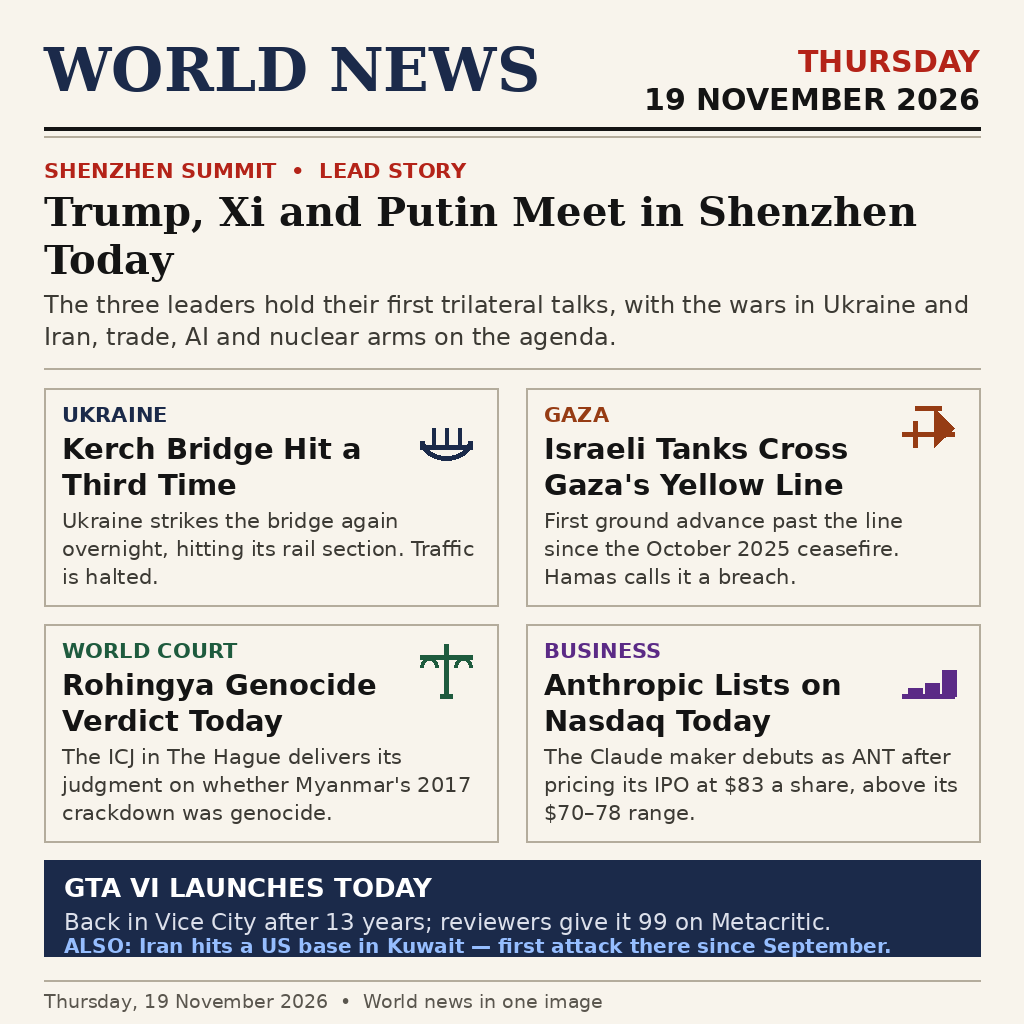
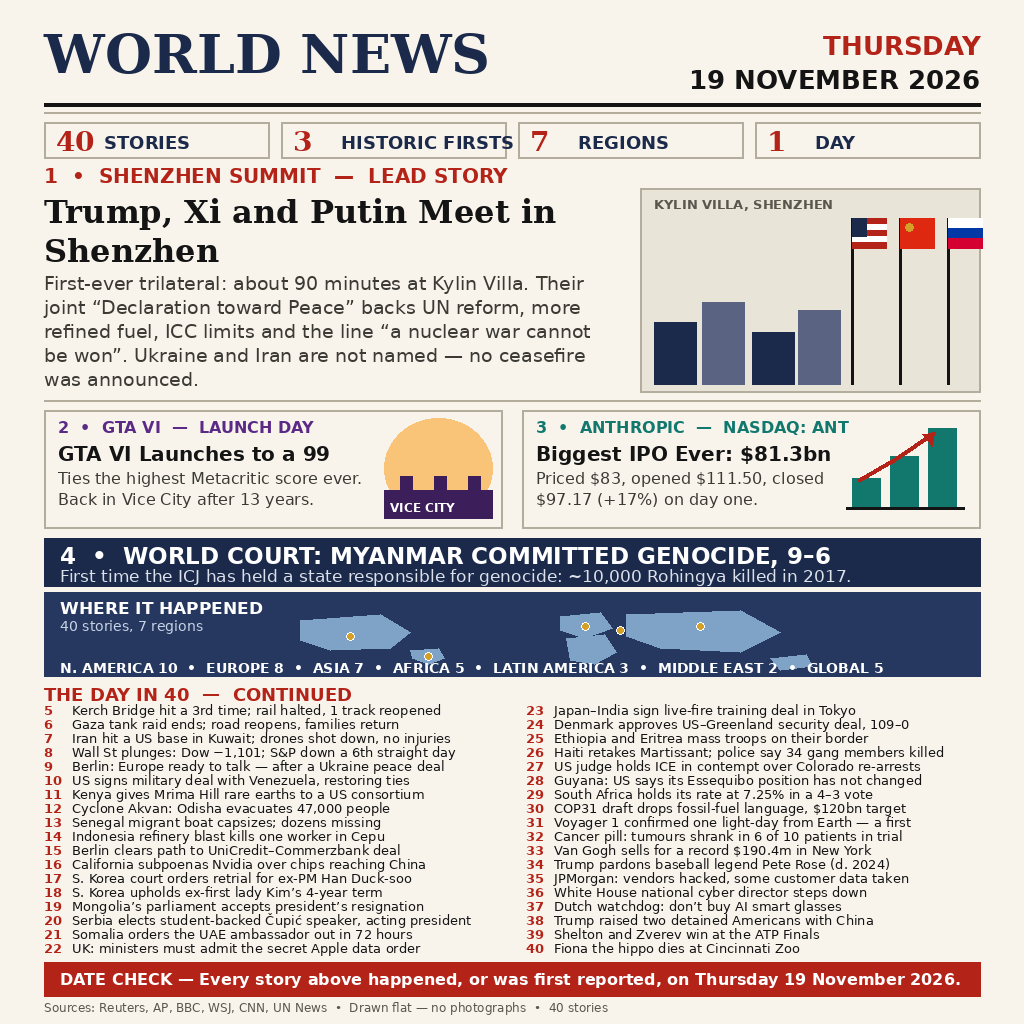
Rebuild v2: evening-complete 19 November news, top-10 flat template, 40 stories

diff --git a/main.ts b/main.ts
@@ -2,6 +2,8 @@
 // entry.png beside this file, and the program copies it to /output/entry.png.
 // The image sums up the world's news of Thursday 19 November 2026 as a
 // newspaper front page drawn by draw.py (see that file for the generator).
+// v2 (20 Nov 2026): evening-complete front page, 40 stories, flat-drawn
+// (Shenzhen declaration, ICJ genocide ruling, Anthropic IPO, GTA VI).
 // The copy is byte for byte, so two runs of this program write the same bytes.
 //
 // Outside the grader's container, MAKEFUN_OUTPUT_DIR stands in for /output:

diff --git a/draw.py b/draw.py
@@ -1,9 +1,17 @@
 #!/usr/bin/env python3
-"""Draw the 19 November 2026 world-news front page (1024x1024 PNG).
+"""Draw the 19 November 2026 world-news front page, v2 (1024x1024 PNG).
 
 Run once here to produce entry.png. The entry program (main.ts) only
 copies entry.png to /output/entry.png, so the grader needs no fonts.
-All facts are the events reported on Thursday 19 November 2026.
+All facts are events that happened, or were first reported, on
+Thursday 19 November 2026 (evening-complete research, 20 Nov 2026).
+
+Layout (top-10 template): flat one-page newspaper, cream paper,
+40 stories, 3 flat-illustrated leads (Shenzhen, GTA VI, Anthropic),
+navy "WHERE IT HAPPENED" world map with per-region counts, a long
+numbered list (items 5-40), and a red "DATE CHECK" footer.
+No photographs: every picture is drawn flat.
+Sections flow top to bottom from a y cursor so nothing overlaps.
 """
 from PIL import Image, ImageDraw, ImageFont
 
@@ -12,8 +20,13 @@ PAPER = (248, 244, 236)
 INK = (20, 20, 20)
 MUTED = (90, 86, 78)
 NAVY = (27, 42, 74)
+NAVY_LT = (127, 163, 199)
 RED = (180, 35, 24)
 RULE = (180, 172, 156)
+TEAL = (18, 120, 110)
+ORANGE = (230, 120, 40)
+PURPLE = (91, 42, 134)
+GOLD = (212, 160, 40)
 
 SERIF_B = "/usr/share/fonts/truetype/dejavu/DejaVuSerif-Bold.ttf"
 SANS_B = "/usr/share/fonts/truetype/dejavu/DejaVuSans-Bold.ttf"
@@ -45,110 +58,223 @@ def para(d, x, y, text, f, max_w, leading, color=INK):
     return y
 
 
-def kicker(d, x, y, text, color):
-    f = font(SANS_B, 21)
-    d.text((x, y), text, font=f, fill=color)
-    return y + 30
-
-
-def icon_bridge(d, cx, cy, s, color):
-    d.arc([cx - s, cy - s // 2, cx + s, cy + s], 0, 180, fill=color, width=5)
-    d.line([cx - s, cy + s // 2, cx + s, cy + s // 2], fill=color, width=5)
-    for dx in (-s // 2, 0, s // 2):
-        d.line([cx + dx, cy - s // 4, cx + dx, cy + s // 2], fill=color, width=4)
-
-
-def icon_cross(d, cx, cy, s, color):
-    d.line([cx - s, cy, cx + s, cy], fill=color, width=5)
-    d.line([cx - s // 2, cy - s, cx + s // 2, cy - s], fill=color, width=5)
-    d.polygon([(cx + s // 4, cy - s), (cx + s, cy - s // 4),
-               (cx + s // 4, cy + s // 2)], fill=color)
-    d.line([cx - s // 2, cy + s // 2, cx - s // 2, cy - s // 2],
-           fill=color, width=5)
-
-
-def icon_scales(d, cx, cy, s, color):
-    d.line([cx, cy - s, cx, cy + s], fill=color, width=5)
-    d.line([cx - s, cy - s // 2, cx + s, cy - s // 2], fill=color, width=5)
-    d.arc([cx - s, cy - s // 2, cx - s // 3, cy + s // 3], 180, 360,
-          fill=color, width=4)
-    d.arc([cx + s // 3, cy - s // 2, cx + s, cy + s // 3], 180, 360,
-          fill=color, width=4)
-    d.line([cx - s // 4, cy + s, cx + s // 4, cy + s], fill=color, width=5)
-
-
-def icon_chart(d, cx, cy, s, color):
-    d.line([cx - s, cy + s, cx + s, cy + s], fill=color, width=5)
-    for i, h in enumerate((s // 3, s // 2, s)):
-        x0 = cx - s + 6 + i * (2 * s // 3)
-        d.rectangle([x0, cy + s - h, x0 + 14, cy + s], fill=color)
+def kicker(d, x, y, text, color, size=20):
+    d.text((x, y), text, font=font(SANS_B, size), fill=color)
+    return y + size + 8
 
 
 img = Image.new("RGB", (W, H), PAPER)
 d = ImageDraw.Draw(img)
 M = 44  # margin
+R = W - M  # right edge
+y = 0
 
 # --- Masthead ---
-d.text((M, 34), "WORLD NEWS", font=font(SERIF_B, 60), fill=NAVY)
-d.text((W - M, 44), "THURSDAY", font=font(SANS_B, 30), fill=RED, anchor="ra")
-d.text((W - M, 82), "19 NOVEMBER 2026", font=font(SANS_B, 30), fill=INK, anchor="ra")
-d.line([M, 128, W - M, 128], fill=INK, width=4)
-d.line([M, 136, W - M, 136], fill=RULE, width=2)
+d.text((M, 22), "WORLD NEWS", font=font(SERIF_B, 54), fill=NAVY)
+d.text((R, 30), "THURSDAY", font=font(SANS_B, 26), fill=RED, anchor="ra")
+d.text((R, 64), "19 NOVEMBER 2026", font=font(SANS_B, 26), fill=INK,
+       anchor="ra")
+d.line([M, 104, R, 104], fill=INK, width=4)
+d.line([M, 112, R, 112], fill=RULE, width=2)
 
-# --- Lead story ---
-y = 158
-y = kicker(d, M, y, "SHENZHEN SUMMIT  •  LEAD STORY", RED)
-y = para(d, M, y, "Trump, Xi and Putin Meet in Shenzhen Today",
-         font(SERIF_B, 40), W - 2 * M, 48)
-y = para(d, M, y + 6,
-         "The three leaders hold their first trilateral talks, with the "
-         "wars in Ukraine and Iran, trade, AI and nuclear arms on the agenda.",
-         font(SANS, 24), W - 2 * M, 32, color=(60, 58, 52))
-d.line([M, y + 14, W - M, y + 14], fill=RULE, width=2)
+# --- Number strip ---
+y = 122
+strip = [("40", "STORIES"), ("3", "HISTORIC FIRSTS"), ("7", "REGIONS"),
+         ("1", "DAY")]
+sw = (R - M - 3 * 12) // 4
+for i, (num, lab) in enumerate(strip):
+    x0 = M + i * (sw + 12)
+    d.rectangle([x0, y, x0 + sw, y + 36], outline=RULE, width=2)
+    d.text((x0 + 12, y + 2), num, font=font(SERIF_B, 28), fill=RED)
+    d.text((x0 + 60, y + 10), lab, font=font(SANS_B, 18), fill=NAVY)
+y += 42
 
-# --- 2x2 grid ---
-cells = [
-    ("UKRAINE", NAVY, "Kerch Bridge Hit a Third Time",
-     "Ukraine strikes the bridge again overnight, hitting "
-     "its rail section. Traffic is halted.", icon_bridge),
-    ("GAZA", (150, 60, 20), "Israeli Tanks Cross Gaza's Yellow Line",
-     "First ground advance past the line since the October 2025 "
-     "ceasefire. Hamas calls it a breach.", icon_cross),
-    ("WORLD COURT", (30, 91, 62), "Rohingya Genocide Verdict Today",
-     "The ICJ in The Hague delivers its judgment on whether "
-     "Myanmar's 2017 crackdown was genocide.", icon_scales),
-    ("BUSINESS", (91, 42, 134), "Anthropic Lists on Nasdaq Today",
-     "The Claude maker debuts as ANT after pricing its IPO "
-     "at $83 a share, above its $70\u201378 range.", icon_chart),
+# --- Lead 1: Shenzhen summit (flat illustration right) ---
+y = kicker(d, M, y, "1  •  SHENZHEN SUMMIT  —  LEAD STORY", RED)
+lead_top = y
+y = para(d, M, y, "Trump, Xi and Putin Meet in Shenzhen",
+         font(SERIF_B, 32), 560, 39)
+y = para(d, M, y + 2,
+         "First-ever trilateral: about 90 minutes at Kylin Villa. "
+         "Their joint \u201cDeclaration toward Peace\u201d backs UN reform, "
+         "more refined fuel, ICC limits and the line \u201ca nuclear war "
+         "cannot be won\u201d. Ukraine and Iran are not named \u2014 no "
+         "ceasefire was announced.",
+         font(SANS, 19), 560, 24, color=(60, 58, 52))
+lead_bot = y
+# flat illustration: skyline + three flags
+ix0, iy0, ix1, iy1 = 640, lead_top - 4, R, lead_bot
+d.rectangle([ix0, iy0, ix1, iy1], fill=(233, 228, 216), outline=RULE, width=2)
+d.text((ix0 + 14, iy0 + 8), "KYLIN VILLA, SHENZHEN",
+       font=font(SANS_B, 13), fill=MUTED)
+for bx, bh, col in ((ix0 + 14, 62, NAVY), (ix0 + 62, 82, (90, 100, 130)),
+                    (ix0 + 112, 52, NAVY), (ix0 + 158, 74, (90, 100, 130))):
+    d.rectangle([bx, iy1 - 8 - bh, bx + 42, iy1 - 8], fill=col)
+# three flags: US stripes, China red + star, Russia white/blue/red
+fx = ix0 + 212
+d.line([fx, iy0 + 30, fx, iy1 - 8], fill=INK, width=3)
+for j in range(5):
+    d.rectangle([fx, iy0 + 30 + j * 6, fx + 34, iy0 + 36 + j * 6],
+                fill=(180, 35, 24) if j % 2 == 0 else (255, 255, 255))
+d.rectangle([fx, iy0 + 30, fx + 14, iy0 + 48], fill=(27, 42, 74))
+fx = ix0 + 260
+d.line([fx, iy0 + 30, fx, iy1 - 8], fill=INK, width=3)
+d.rectangle([fx, iy0 + 30, fx + 34, iy0 + 60], fill=(222, 41, 16))
+d.ellipse([fx + 5, iy0 + 35, fx + 13, iy0 + 43], fill=GOLD)
+fx = ix0 + 308
+d.line([fx, iy0 + 30, fx, iy1 - 8], fill=INK, width=3)
+for j, c in enumerate(((255, 255, 255), (0, 57, 166), (213, 0, 50))):
+    d.rectangle([fx, iy0 + 30 + j * 10, fx + 34, iy0 + 40 + j * 10],
+                fill=c)
+y = lead_bot + 8
+d.line([M, y, R, y], fill=RULE, width=2)
+y += 10
+
+# --- Row B: two illustrated boxes (GTA VI | Anthropic) ---
+by, bh = y, 118
+bw = (R - M - 20) // 2
+# GTA VI box
+x0 = M
+d.rectangle([x0, by, x0 + bw, by + bh], outline=RULE, width=2)
+yy = kicker(d, x0 + 14, by + 8, "2  •  GTA VI  —  LAUNCH DAY", PURPLE, 16)
+yy = para(d, x0 + 14, yy, "GTA VI Launches to a 99",
+         font(SANS_B, 20), bw - 140, 25)
+para(d, x0 + 14, yy + 2,
+     "Ties the highest Metacritic score ever. Back in Vice City "
+     "after 13 years.",
+     font(SANS, 16), bw - 140, 21, color=(60, 58, 52))
+gx0, gy0 = x0 + bw - 118, by + 8
+d.ellipse([gx0, gy0, gx0 + 108, gy0 + 100], fill=(250, 196, 120))
+d.rectangle([gx0, gy0 + 72, gx0 + 108, gy0 + 100], fill=(60, 30, 90))
+for px in (gx0 + 16, gx0 + 50, gx0 + 84):
+    d.rectangle([px, gy0 + 58, px + 12, gy0 + 100], fill=(60, 30, 90))
+d.text((gx0 + 6, gy0 + 82), "VICE CITY", font=font(SANS_B, 12),
+       fill=(255, 255, 255))
+# Anthropic box
+x0 = M + bw + 20
+d.rectangle([x0, by, x0 + bw, by + bh], outline=RULE, width=2)
+yy = kicker(d, x0 + 14, by + 8, "3  •  ANTHROPIC  —  NASDAQ: ANT",
+            TEAL, 16)
+yy = para(d, x0 + 14, yy, "Biggest IPO Ever: $81.3bn",
+         font(SANS_B, 20), bw - 140, 25)
+para(d, x0 + 14, yy + 2,
+     "Priced $83, opened $111.50, closed $97.17 (+17%) on day one.",
+     font(SANS, 16), bw - 140, 21, color=(60, 58, 52))
+cx0, cy0 = x0 + bw - 128, by + 10
+for i, h in enumerate((30, 52, 80)):
+    d.rectangle([cx0 + i * 38, cy0 + 88 - h, cx0 + i * 38 + 28, cy0 + 88],
+                fill=TEAL)
+d.line([cx0 - 6, cy0 + 88, cx0 + 112, cy0 + 88], fill=INK, width=3)
+d.line([(cx0 + 6, cy0 + 60), (cx0 + 44, cy0 + 38), (cx0 + 82, cy0 + 12)],
+       fill=RED, width=4)
+d.polygon([(cx0 + 82, cy0 + 12), (cx0 + 70, cy0 + 14), (cx0 + 80, cy0 + 26)],
+          fill=RED)
+y = by + bh + 10
+
+# --- ICJ band ---
+d.rectangle([M, y, R, y + 48], fill=NAVY)
+d.text((M + 16, y + 4), "4  •  WORLD COURT: MYANMAR COMMITTED GENOCIDE, 9\u20136",
+       font=font(SANS_B, 23), fill=(255, 255, 255))
+d.text((M + 16, y + 28),
+       "First time the ICJ has held a state responsible for genocide: ~10,000 Rohingya killed in 2017.",
+       font=font(SANS, 17), fill=(220, 224, 235))
+y += 48 + 6
+
+# --- WHERE IT HAPPENED map band ---
+my = y
+d.rectangle([M, my, R, my + 84], fill=(38, 56, 96))
+d.text((M + 16, my + 6), "WHERE IT HAPPENED",
+       font=font(SANS_B, 17), fill=(255, 255, 255))
+d.text((M + 16, my + 26), "40 stories, 7 regions",
+       font=font(SANS, 14), fill=(200, 210, 230))
+# simplified flat continents (kept above the counts line)
+d.polygon([(300, my + 28), (380, my + 22), (410, my + 40), (390, my + 56),
+           (330, my + 58), (300, my + 48)], fill=NAVY_LT)  # N America
+d.polygon([(410, my + 58), (438, my + 56), (444, my + 66), (428, my + 72),
+           (412, my + 66)], fill=NAVY_LT)  # S America
+d.polygon([(560, my + 24), (600, my + 20), (612, my + 36), (584, my + 46),
+           (560, my + 38)], fill=NAVY_LT)  # Europe
+d.polygon([(566, my + 46), (604, my + 42), (616, my + 60), (594, my + 72),
+           (570, my + 68)], fill=NAVY_LT)  # Africa
+d.polygon([(626, my + 22), (740, my + 18), (780, my + 40), (740, my + 60),
+           (660, my + 56), (626, my + 44)], fill=NAVY_LT)  # Asia
+d.polygon([(770, my + 66), (806, my + 62), (812, my + 74), (780, my + 78)],
+          fill=NAVY_LT)  # Oceania
+for dx, dy in ((700, my + 34), (585, my + 34), (620, my + 38),
+               (350, my + 44), (428, my + 64)):
+    d.ellipse([dx - 4, dy - 4, dx + 4, dy + 4], fill=GOLD,
+              outline=(255, 255, 255), width=1)
+d.text((M + 16, my + 68),
+       "N. AMERICA 10  •  EUROPE 8  •  ASIA 7  •  AFRICA 5  •  "
+       "LATIN AMERICA 3  •  MIDDLE EAST 2  •  GLOBAL 5",
+       font=font(SANS_B, 14), fill=(255, 255, 255))
+y = my + 84 + 8
+
+# --- Numbered list: items 5-40, two columns ---
+d.text((M, y), "THE DAY IN 40  —  CONTINUED",
+       font=font(SANS_B, 18), fill=RED)
+y += 18
+items = [
+    (5, "Kerch Bridge hit a 3rd time; rail halted, 1 track reopened"),
+    (6, "Gaza tank raid ends; road reopens, families return"),
+    (7, "Iran hit a US base in Kuwait; drones shot down, no injuries"),
+    (8, "Wall St plunges: Dow \u22121,101; S&P down a 6th straight day"),
+    (9, "Berlin: Europe ready to talk \u2014 after a Ukraine peace deal"),
+    (10, "US signs military deal with Venezuela, restoring ties"),
+    (11, "Kenya gives Mrima Hill rare earths to a US consortium"),
+    (12, "Cyclone Akvan: Odisha evacuates 47,000 people"),
+    (13, "Senegal migrant boat capsizes; dozens missing"),
+    (14, "Indonesia refinery blast kills one worker in Cepu"),
+    (15, "Berlin clears path to UniCredit\u2013Commerzbank deal"),
+    (16, "California subpoenas Nvidia over chips reaching China"),
+    (17, "S. Korea court orders retrial for ex-PM Han Duck-soo"),
+    (18, "S. Korea upholds ex-first lady Kim\u2019s 4-year term"),
+    (19, "Mongolia\u2019s parliament accepts president\u2019s resignation"),
+    (20, "Serbia elects student-backed \u010cupi\u0107 speaker, acting president"),
+    (21, "Somalia orders the UAE ambassador out in 72 hours"),
+    (22, "UK: ministers must admit the secret Apple data order"),
+    (23, "Japan\u2013India sign live-fire training deal in Tokyo"),
+    (24, "Denmark approves US\u2013Greenland security deal, 109\u20130"),
+    (25, "Ethiopia and Eritrea mass troops on their border"),
+    (26, "Haiti retakes Martissant; police say 34 gang members killed"),
+    (27, "US judge holds ICE in contempt over Colorado re-arrests"),
+    (28, "Guyana: US says its Essequibo position has not changed"),
+    (29, "South Africa holds its rate at 7.25% in a 4\u20133 vote"),
+    (30, "COP31 draft drops fossil-fuel language, $120bn target"),
+    (31, "Voyager 1 confirmed one light-day from Earth \u2014 a first"),
+    (32, "Cancer pill: tumours shrank in 6 of 10 patients in trial"),
+    (33, "Van Gogh sells for a record $190.4m in New York"),
+    (34, "Trump pardons baseball legend Pete Rose (d. 2024)"),
+    (35, "JPMorgan: vendors hacked, some customer data taken"),
+    (36, "White House national cyber director steps down"),
+    (37, "Dutch watchdog: don\u2019t buy AI smart glasses"),
+    (38, "Trump raised two detained Americans with China"),
+    (39, "Shelton and Zverev win at the ATP Finals"),
+    (40, "Fiona the hippo dies at Cincinnati Zoo"),
 ]
-gx, gy = M, y + 34
-cw, ch = (W - 2 * M - 28) // 2, 218
-for i, (kick, col, head, body, icon) in enumerate(cells):
-    cx = gx + (i % 2) * (cw + 28)
-    cy = gy + (i // 2) * (ch + 18)
-    d.rectangle([cx, cy, cx + cw, cy + ch], outline=RULE, width=2)
-    ix = cx + cw - 52
-    icon(d, ix, cy + 46, 26, col)
-    yy = kicker(d, cx + 18, cy + 14, kick, col)
-    yy = para(d, cx + 18, yy, head, font(SANS_B, 29), cw - 110, 36)
-    para(d, cx + 18, yy + 4, body, font(SANS, 21), cw - 36, 28, color=(60, 58, 52))
+fnum = font(SANS_B, 13)
+fitem = font(SANS, 13)
+colw = (R - M - 28) // 2
+for idx, (n, txt) in enumerate(items):
+    col = idx // 18
+    row = idx % 18
+    x = M + col * (colw + 28)
+    yy = y + row * 14
+    d.text((x, yy), str(n), font=fnum, fill=RED)
+    d.text((x + 28, yy), txt, font=fitem, fill=INK)
+y = y + 18 * 14 + 8
 
-# --- Bottom strip: GTA VI + Gulf ---
-by = gy + 2 * ch + 18 + 18
-d.rectangle([M, by, W - M, by + 96], fill=NAVY)
-d.text((M + 20, by + 12), "GTA VI LAUNCHES TODAY",
-       font=font(SANS_B, 26), fill=(255, 255, 255))
-d.text((M + 20, by + 48),
-       "Back in Vice City after 13 years; reviewers give it 99 on Metacritic.",
-       font=font(SANS, 23), fill=(220, 224, 235))
-d.text((M + 20, by + 74),
-       "ALSO: Iran hits a US base in Kuwait — first attack there since September.",
-       font=font(SANS_B, 20), fill=(150, 190, 255))
-
-# --- Footer ---
-d.line([M, H - 44, W - M, H - 44], fill=RULE, width=2)
-d.text((M, H - 34), "Thursday, 19 November 2026  •  World news in one image",
-       font=font(SANS, 19), fill=MUTED)
+# --- Footer: DATE CHECK ---
+d.rectangle([M, y, R, y + 34], fill=RED)
+d.text((M + 16, y + 8),
+       "DATE CHECK \u2014 Every story above happened, or was first reported, "
+       "on Thursday 19 November 2026.",
+       font=font(SANS_B, 16), fill=(255, 255, 255))
+y = y + 34 + 4
+d.text((M, y), "Sources: Reuters, AP, BBC, WSJ, CNN, UN News  •  "
+       "Drawn flat \u2014 no photographs  •  40 stories",
+       font=font(SANS, 12), fill=MUTED)
+print("layout bottom y =", y, "of", H)
 
 img.save("entry.png", optimize=True)
 print("saved entry.png", img.size)

diff --git a/README.md b/README.md
@@ -6,18 +6,21 @@
 
 Entry for the [make.fun bounty "Sum up 19 November's world news in one image"](https://make.fun/bounty/news-image-20261119) ($250, 50 places paid).
 
-`entry.png` is a newspaper front page summing up Thursday, 19 November 2026:
+`entry.png` is a flat-drawn newspaper front page summing up Thursday, 19 November 2026 — 40 stories, evening-complete:
 
-- **Lead:** Trump, Xi and Putin meet in Shenzhen for their first trilateral talks, with the Ukraine and Iran wars on the agenda
-- **Ukraine:** Kerch Bridge hit again overnight, a third attack in a week, hitting its rail section; traffic halted
-- **Gaza:** Israeli tanks cross the Yellow Line, the first ground advance since the October 2025 ceasefire; Hamas calls it a breach
-- **World Court:** the ICJ rules today on whether Myanmar's 2017 crackdown on the Rohingya was genocide
-- **Business:** Anthropic shares debut on Nasdaq as ANT after pricing its IPO at $83 a share, above its $70–$78 range
-- **Also:** GTA VI launches today, back in Vice City after 13 years (Metacritic 99); Iran hits a US base in Kuwait, its first attack there since September
+- **Lead:** Trump, Xi and Putin meet in Shenzhen for their first-ever trilateral talks (~90 min, Kylin Villa). Their joint "Declaration toward Peace" backs UN reform, more refined fuel, ICC limits and "a nuclear war cannot be won". Ukraine and Iran are not named — no ceasefire was announced.
+- **World Court:** the ICJ rules 9–6 that Myanmar committed genocide against the Rohingya in 2017 — the first time the court has held a state responsible for genocide (~10,000 killed).
+- **Business:** Anthropic debuts on Nasdaq as ANT — the biggest IPO ever ($81.3bn): priced $83, opened $111.50, closed $97.17 (+17%).
+- **Culture:** GTA VI launches, tying the highest Metacritic score ever (99), back in Vice City after 13 years.
+- **Also in the 40:** Kerch Bridge hit a third time, the Gaza tank raid ends, Iran's strike on a US base in Kuwait, Wall Street's plunge (Dow −1,101), the Berlin Coalition of the Willing summit, a US–Venezuela military deal, Cyclone Akvan, Voyager 1 one light-day out, a record $190.4m Van Gogh, and 30 more — with a "WHERE IT HAPPENED" world map, per-region counts, and a red DATE CHECK footer.
 
 ## How it is built
 
-- `draw.py` draws the front page with Pillow (crisp text, no AI artefacts) and writes `entry.png` (1024×1024).
+- `draw.py` draws the front page with Pillow (crisp text, no AI artefacts, no photographs — every picture is drawn flat) and writes `entry.png` (1024×1024).
 - `main.ts` (Node 22, standard library only) copies `entry.png` to `/output/entry.png`.
 
 Run it: `mkdir -p out && MAKEFUN_OUTPUT_DIR=out node main.ts`
+
+## v2
+
+Rebuilt 20 November 2026 from the evening-complete news of 19 November, following the leaderboard's top-10 template (flat one-page paper, 40 stories, 3 illustrated leads, world map, numbered list, DATE CHECK footer). It replaces the v1 entry (morning-version facts, provisional rank far outside the paid places).
